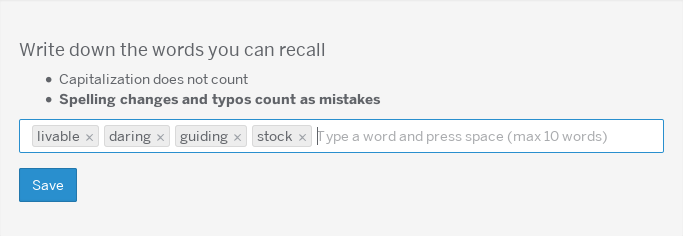
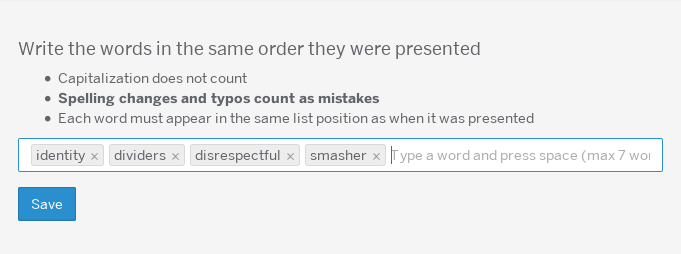
Update instructions to stick with new word span task

diff --git a/app/components/word-span-instructions.js b/app/components/word-span-instructions.js
@@ -5,6 +5,16 @@ export default Ember.Component.extend({
   showIntro: true,
 
   introSteps: function(user, shaping/*, lifecycle*/) {
+    var trainingSizes = shaping.get('wordSpanTrainingSetSizes'),
+        taskingSizes = shaping.get('wordSpanTaskingSetSizes'),
+        minSize = Math.min(Math.min.apply(null, trainingSizes),
+                           Math.min.apply(null, taskingSizes)),
+        maxSize = Math.max(Math.max.apply(null, trainingSizes),
+                           Math.max.apply(null, taskingSizes)),
+        trialsPerSize = shaping.get('wordSpanTrialsPerSetSize'),
+        trainingCount = trainingSizes.length * trialsPerSize,
+        taskingCount = taskingSizes.length * trialsPerSize;
+
     return [
       {
         element: Ember.$('#word-span-title').get(0),
@@ -13,35 +23,29 @@ export default Ember.Component.extend({
       },
       {
         element: Ember.$('#instruction-read').get(0),
-        intro: `You're going to read a <strong>list of ${shaping.get('wordSpanWordsCount')} words</strong>`,
+        intro: `You're going to read a <strong>list of words</strong> (there can be from ${minSize} to ${maxSize} words)`,
         position: "right",
         image: 'read'
       },
       {
         element: Ember.$('#instruction-read').get(0),
-        intro: "<strong>Try to memorize all the words!</strong>",
+        intro: "Try to memorize all the words presented!",
         position: "bottom",
       },
       {
-        element: Ember.$('#instruction-distract').get(0),
-        intro: "Then there's a pause",
-        position: "right",
-        image: 'distract'
-      },
-      {
         element: Ember.$('#instruction-write').get(0),
-        intro: "And you must rewrite the words you remember",
-        position: "top",
+        intro: "Then you must rewrite the words <strong>in the same order</strong>",
+        position: "left",
         image: 'write'
       },
       {
         element: Ember.$('#instruction-write').get(0),
         intro: "Capitalization doesn't count, but <strong>typos and spelling changes count as mistakes!</strong>",
-        position: "left",
+        position: "top",
       },
       {
         element: Ember.$('#word-span-progress').get(0),
-        intro: `The whole process loops ${shaping.get('wordSpanTrialsCount')} times, and you're done!`,
+        intro: `Right now you have <strong>${trainingCount} trials to practice</strong>, then there are <strong>${taskingCount} real trials</strong> and you're done!`,
         position: "left",
       }
     ];
@@ -82,7 +86,6 @@ export default Ember.Component.extend({
 
   images: [
     Ember.Object.create({ name: 'read', title: 'Reading the words', hidden: true }),
-    Ember.Object.create({ name: 'distract', title: 'Remember it well', hidden: true }),
-    Ember.Object.create({ name: 'write', title: 'Writing the words you remember', hidden: true })
+    Ember.Object.create({ name: 'write', title: 'Writing the words in the same order', hidden: true })
   ],
 });

diff --git a/app/styles/app.less b/app/styles/app.less
@@ -163,7 +163,6 @@ div.instructions.instructions-play { height: 230px; width: 610px; }
 .instructions-play img#instruction-write { top: 70px; left: 260px; width: 350px; }
 div.instructions.instructions-word-span { height: 241px; width: 610px; }
 .instructions-word-span img#instruction-read { top: 0; left: 0; width: 350px; }
-.instructions-word-span img#instruction-distract { top: 110px; left: 150px; width: 93px; }
 .instructions-word-span img#instruction-write { top: 120px; left: 260px; width: 350px; }
 
 /*
